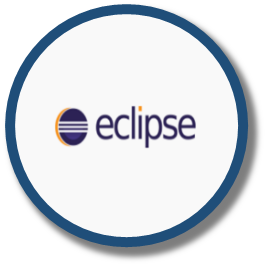
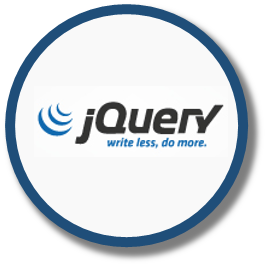
테크파트 그림배치

Changed region(s): [[0.1203, 0.3623, 0.8421, 0.5736]]

diff --git a/index.html b/index.html
@@ -94,12 +94,20 @@
                     <div class="divider-custom-icon"> <i class="fas fa-check"></i></div>
                     <div class="divider-custom-line divider-custom-line2  "></div>
                 </div>
-                	<div class= "">
-                  	<img class="img-tech" src="assets/img/tech/spring.png"  alt="..." />
-                  	<img class="img-tech" src="assets/img/tech/spring.png"  alt="..." />
-                  	<img class="img-tech" src="assets/img/tech/spring.png"  alt="..." />
-                  	<img class="img-tech" src="assets/img/tech/spring.png"  alt="..." />
+                <div class = "img-tech-all">
+                	<div class= "img-tech-content">
+		                  	<img class="img-tech" src="assets/img/tech/spring.png"  alt="..." />
+		                  	<img class="img-tech" src="assets/img/tech/mybatis.png"  alt="..." />
+		                  	<img class="img-tech" src="assets/img/tech/eclipse.png"  alt="..." />          
+		                  	<img class="img-tech" src="assets/img/tech/sql.png"  alt="..." />	                       	
                   	</div>
+                  	<div class ="img-tech-content">
+                  			<img class="img-tech" src="assets/img/tech/front.png"  alt="..." />       
+                  			<img class="img-tech" src="assets/img/tech/jquery.png"  alt="..." />   
+		              		<img class="img-tech" src="assets/img/tech/github.png"  alt="..." />	                  	
+		                  	 <img class="img-tech" src="assets/img/tech/erd.png"  alt="..." />
+                  	</div>
+                  </div>	
                 </div>
                 </section>        
                 

diff --git a/css/styles.css b/css/styles.css
@@ -581,7 +581,8 @@ progress {
   height: 300px;
 }
 .img-tech{
-	
+	text-align:center;
+	padding-right: 4.2%;
 }
 
 .img-thumbnail {
